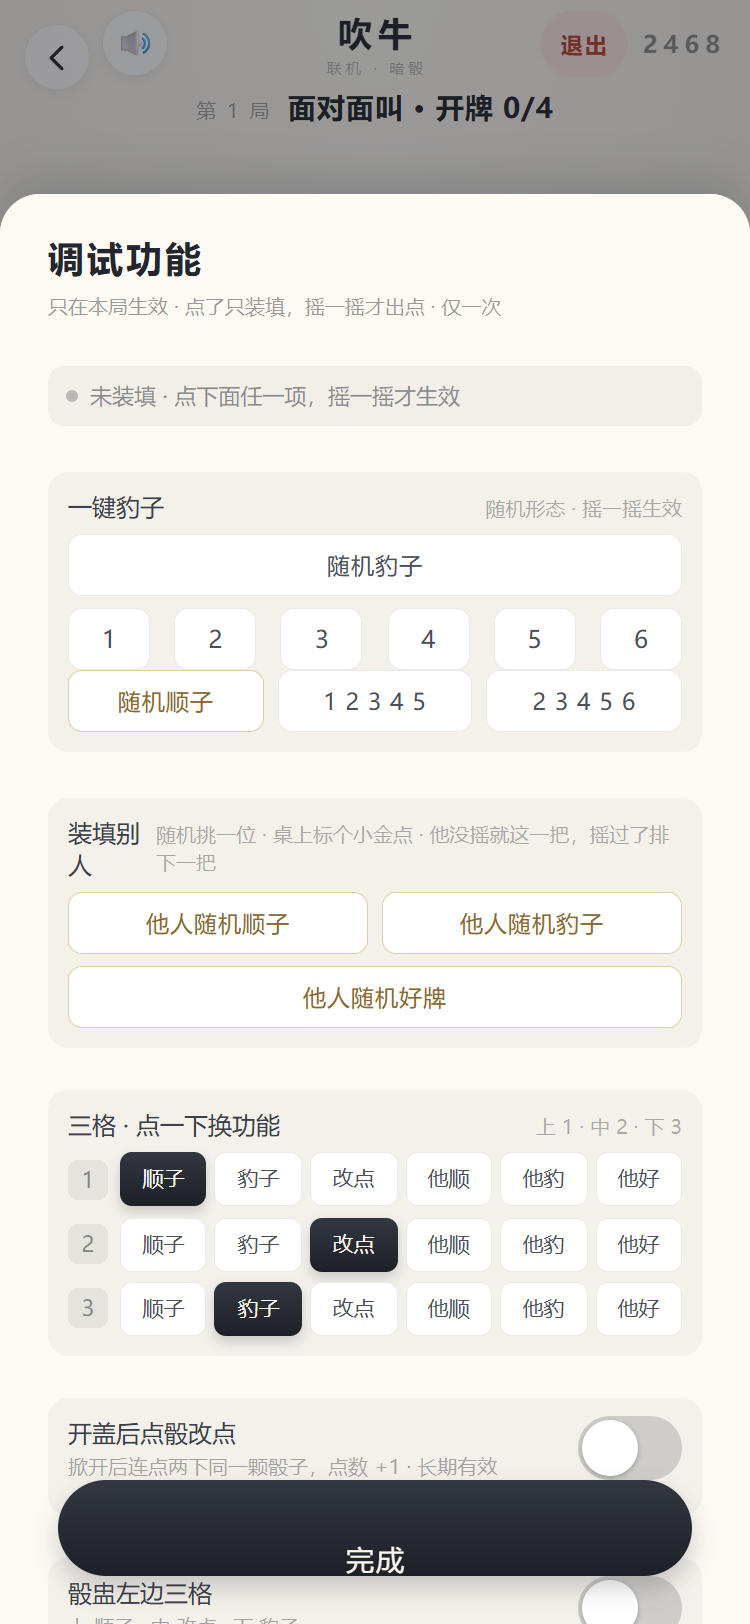
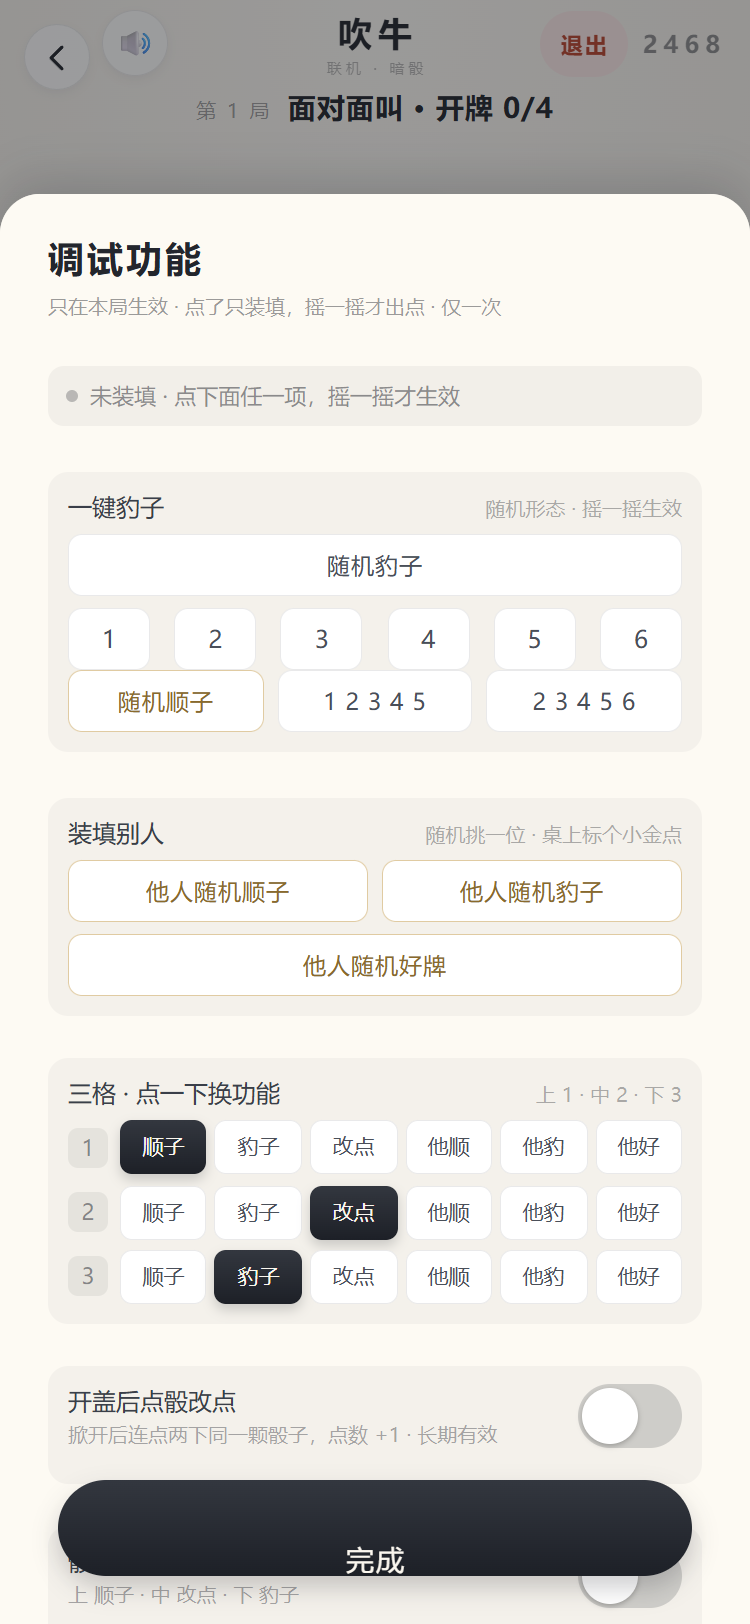
fix(dbg): 面板「装填别人」标题别折行，副标题缩成一句
标题加 nowrap（只作用于 .lr-dbg），副标题改成「随机挑一位 · 桌上标个小金点」，重拍面板图。

diff --git a/app/src/full/assets/www/liarnet.css b/app/src/full/assets/www/liarnet.css
@@ -751,6 +751,13 @@
    为什么不照单机摆在盅下面横着切三格：联机版盅下面就是「摇 · 5 颗」那颗大按钮，
    横着切一定会压在按钮上，点摇骰顺手就装填了。 */
 
+/* 面板里那些小标题（.quick-head 是 app.css 里那套，单机面板也在用）：
+   「装填别人」的副标题 2026-11-12 变长之后把标题挤成了两行 ——
+   这里只收紧联机面板：标题不折，让副标题自己去折。 */
+.lr-dbg .quick-title { flex: 0 0 auto; white-space: nowrap; }
+.lr-dbg .quick-tip { text-align: right; min-width: 0; }
+
+
 .lr-table { position: relative; }
 
 .lr-zone {

diff --git a/app/src/full/assets/www/index.html b/app/src/full/assets/www/index.html
@@ -1189,7 +1189,7 @@
         <div class="quick lr-other">
           <div class="quick-head">
             <span class="quick-title">装填别人</span>
-            <span class="quick-tip">随机挑一位 · 桌上标个小金点 · 他没摇就这一把，摇过了排下一把</span>
+            <span class="quick-tip">随机挑一位 · 桌上标个小金点</span>
           </div>
           <div class="quick-row">
             <div class="qchip wide hot" id="lrOtherSt">他人随机顺子</div>
